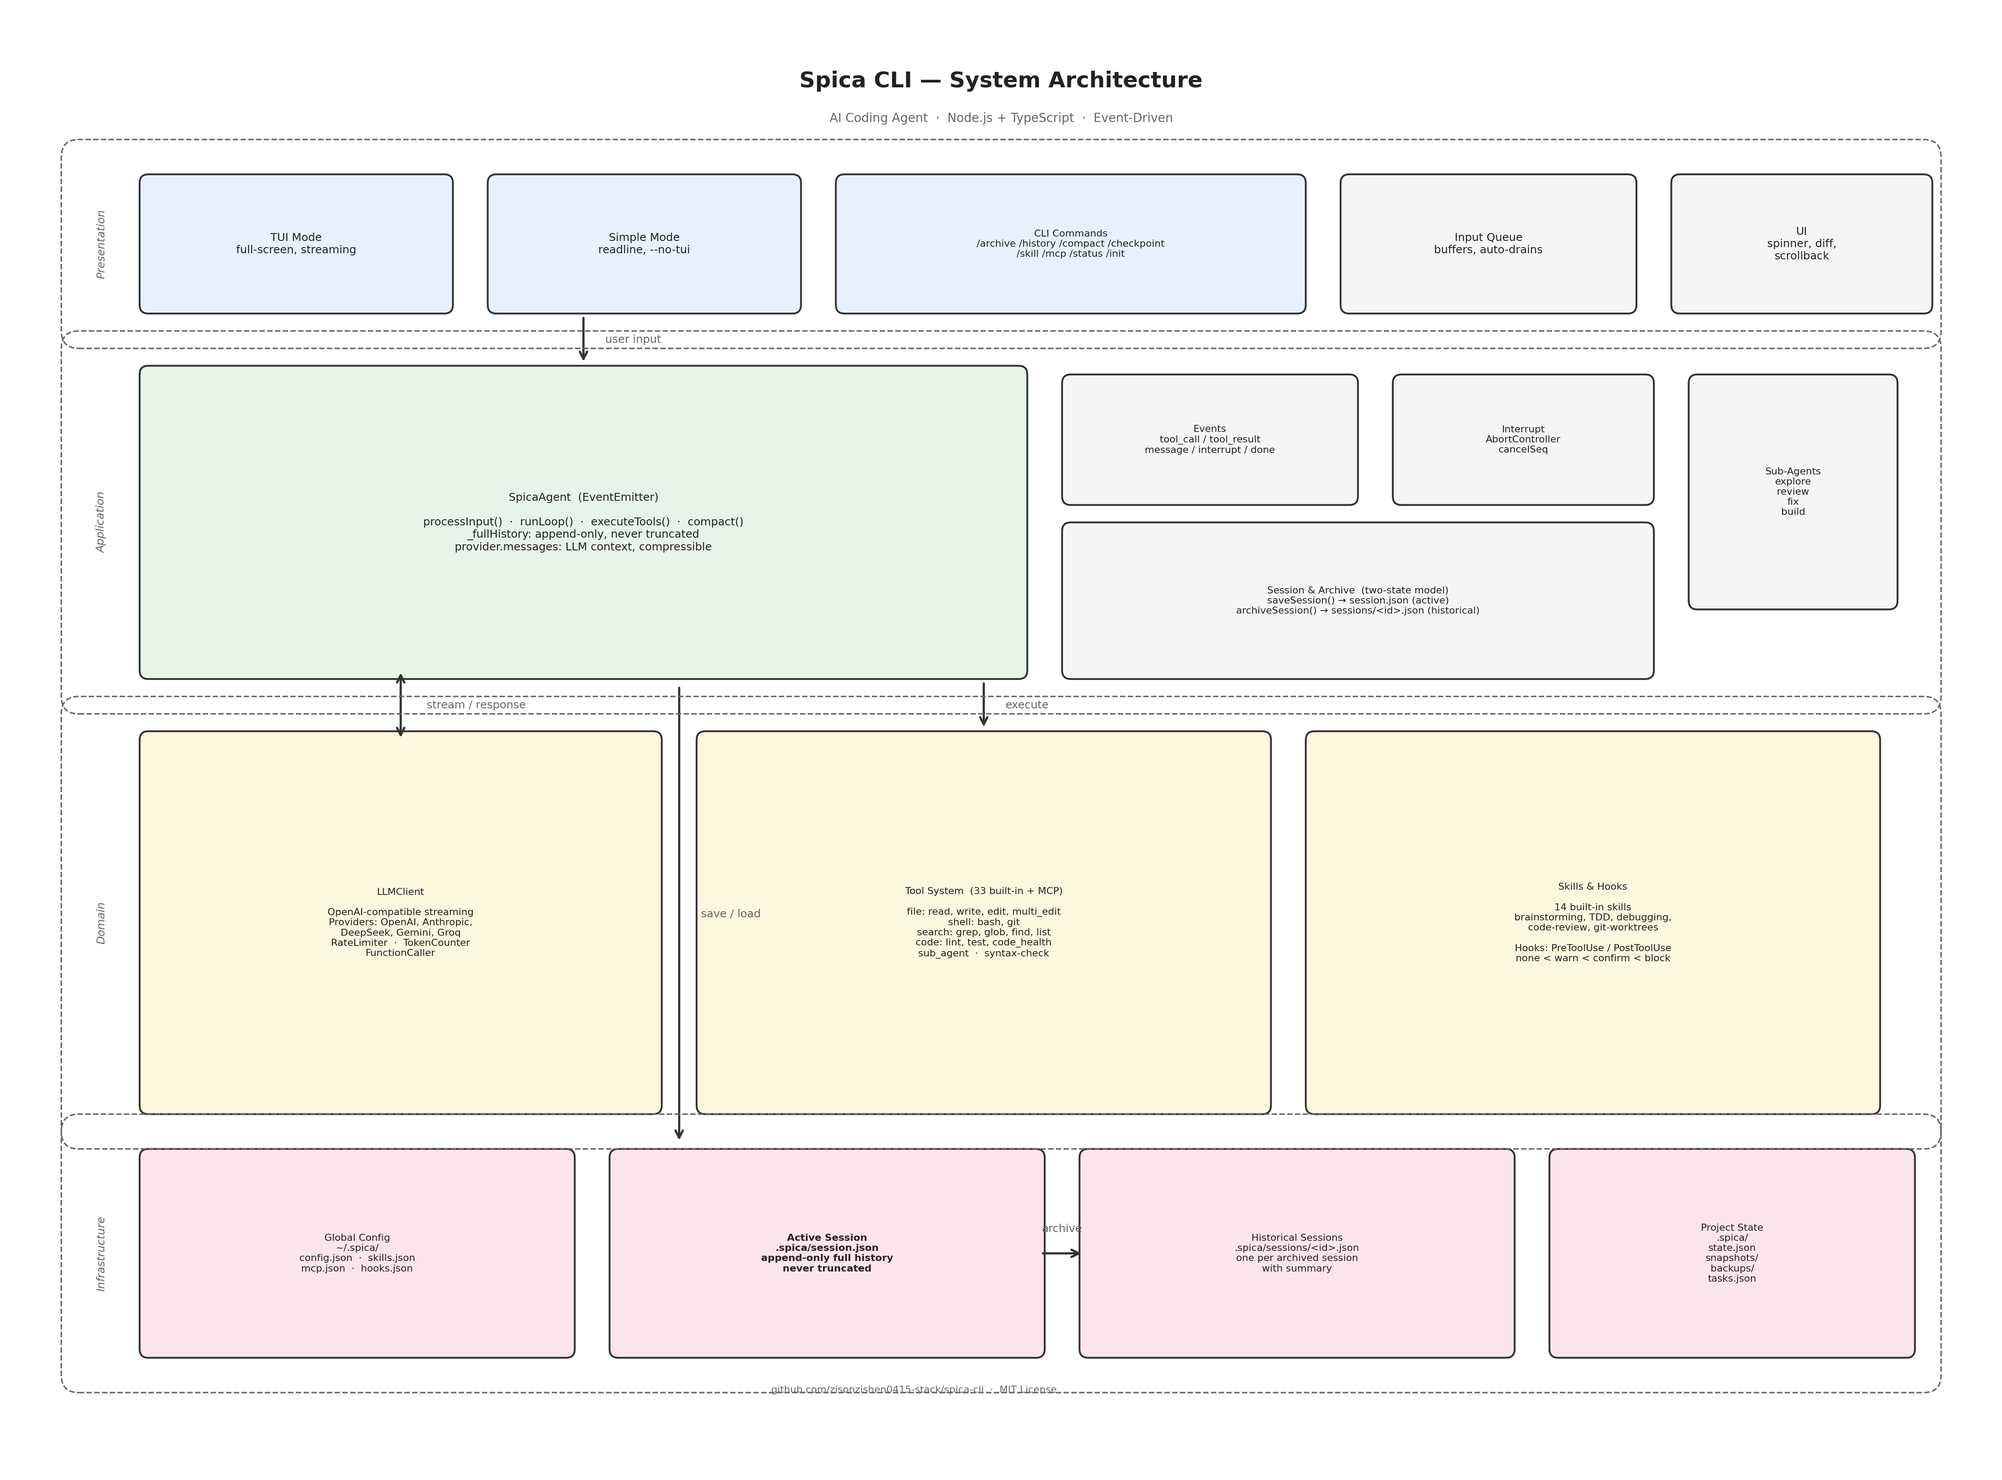
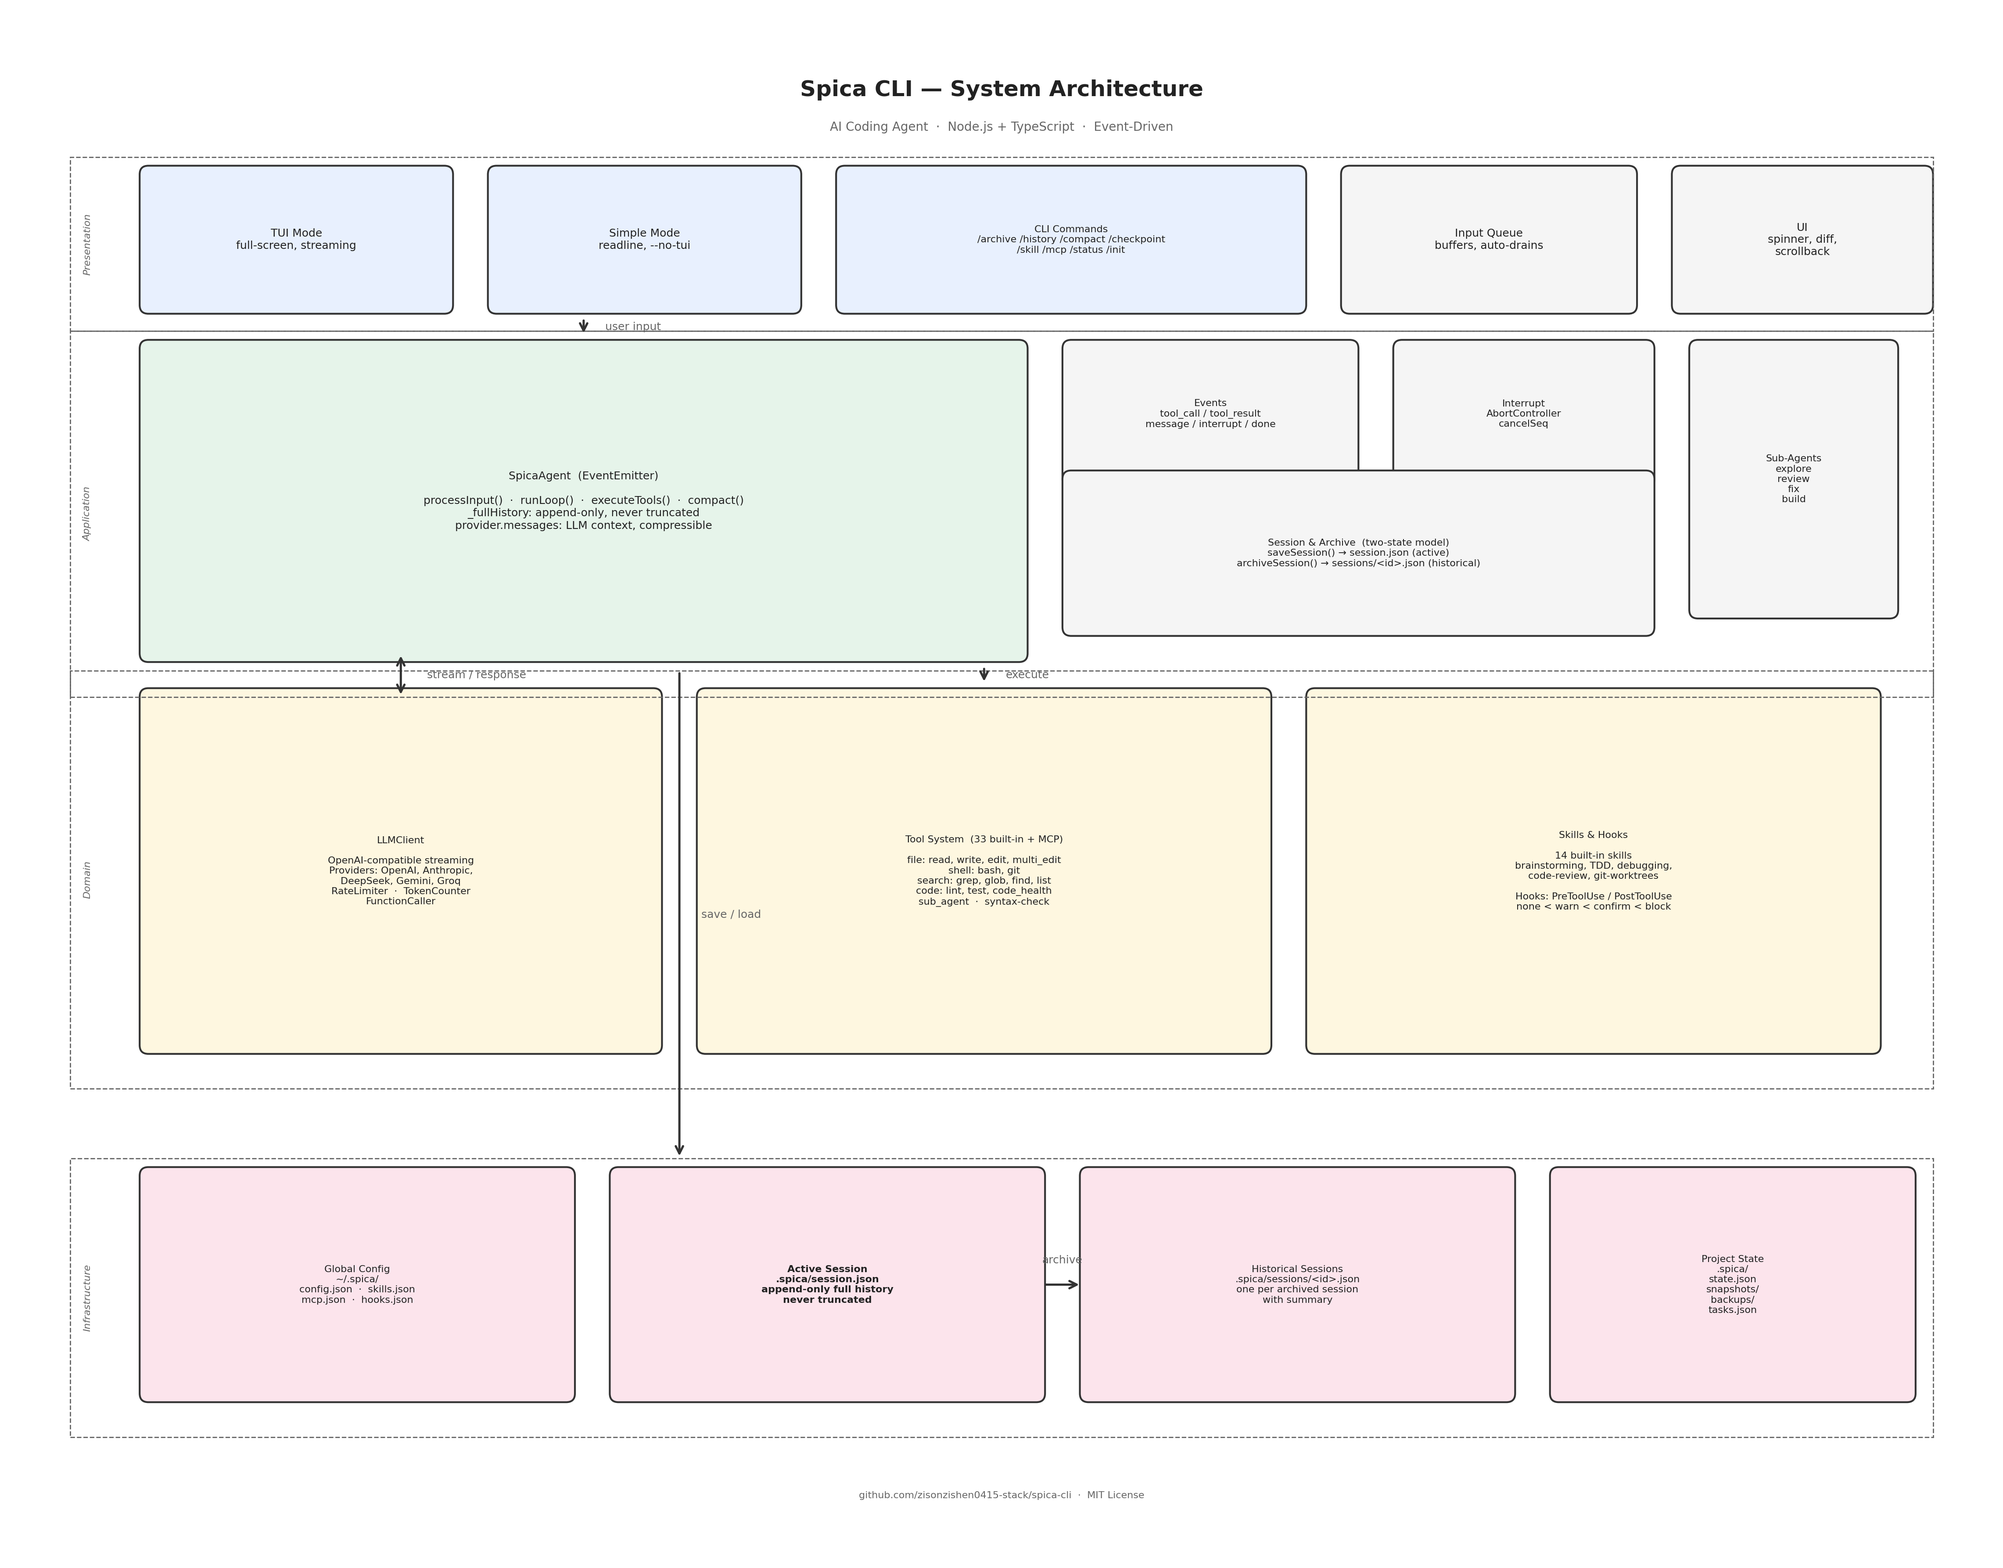
fix(docs): full rewrite — Rectangle layer borders, clean spacing
- Rectangle (not rounded) layer boundaries → no corner overlap
- 0-unit gaps between adjacent layers → shared clean edges
- 0.8-unit gap between Domain and Infrastructure for save/load arrow
- All positions verified: boxes fully within their layer boundaries

diff --git a/scripts/draw_architecture.py b/scripts/draw_architecture.py
@@ -1,19 +1,17 @@
 #!/usr/bin/env python3
-"""Spica CLI — academic-style system block diagram."""
+"""Spica CLI — academic block diagram with clean spacing."""
 
 import matplotlib
 matplotlib.use('Agg')
 import matplotlib.pyplot as plt
-from matplotlib.patches import Rectangle, FancyBboxPatch, FancyArrowPatch
-from matplotlib.patches import FancyArrowPatch as FAP
+from matplotlib.patches import FancyBboxPatch, Rectangle, FancyArrowPatch as FAP
 
-fig, ax = plt.subplots(figsize=(22, 16))
+fig, ax = plt.subplots(figsize=(22, 17))
 ax.set_xlim(0, 22)
-ax.set_ylim(0, 16)
+ax.set_ylim(0, 17)
 ax.set_aspect('equal')
 ax.axis('off')
 
-# Academic palette: white bg, black lines, muted fills
 BG   = '#ffffff'
 BOX  = '#f5f5f5'
 BOX2 = '#e8f0fe'
@@ -27,19 +25,16 @@ GRAY = '#666666'
 fig.set_facecolor(BG)
 ax.set_facecolor(BG)
 
-# ═══════════════════════════════════════════════
-# HELPERS
-# ═══════════════════════════════════════════════
+# ── helpers ────────────────────────────────────
 
 class Box:
-    """A labeled block. Coordinates are (left, bottom, width, height)."""
-    def __init__(self, x, y, w, h, label, color=BOX, fontsize=10, bold=False):
+    def __init__(self, x, y, w, h, label, color=BOX, fs=10, bold=False):
         self.x, self.y, self.w, self.h = x, y, w, h
         r = FancyBboxPatch((x, y), w, h, boxstyle='round,pad=0.1',
                            facecolor=color, edgecolor=LINE, lw=1.5)
         ax.add_patch(r)
         wt = 'bold' if bold else 'normal'
-        ax.text(x + w/2, y + h/2, label, color=TEXT, fontsize=fontsize,
+        ax.text(x + w/2, y + h/2, label, color=TEXT, fontsize=fs,
                 ha='center', va='center', fontweight=wt)
 
     def top(self):    return self.y + self.h
@@ -49,95 +44,91 @@ class Box:
     def cx(self):     return self.x + self.w/2
     def cy(self):     return self.y + self.h/2
 
-def arrow(x1, y1, x2, y2, color=LINE, lw=1.8, label='', fs=9, gap=0.15):
-    """Draw a clean arrow from (x1,y1) to (x2,y2), with gap from endpoints.
-    Supports horizontal or vertical arrows only."""
+def arrow(x1, y1, x2, y2, label='', fs=9, gap=0.15):
     dx, dy = x2 - x1, y2 - y1
-    dist = (dx**2 + dy**2)**0.5
-    if dist == 0:
-        return
-    ux, uy = dx/dist, dy/dist
-    # Apply gap
-    sx, sy = x1 + ux*gap, y1 + uy*gap
-    ex, ey = x2 - ux*gap, y2 - uy*gap
-    p = FAP((sx, sy), (ex, ey), arrowstyle='->', color=color, lw=lw,
-            mutation_scale=15, shrinkA=0, shrinkB=0)
+    d = (dx**2 + dy**2)**0.5
+    if d == 0: return
+    ux, uy = dx/d, dy/d
+    p = FAP((x1+ux*gap, y1+uy*gap), (x2-ux*gap, y2-uy*gap),
+            arrowstyle='->', color=LINE, lw=1.8, mutation_scale=15)
     ax.add_patch(p)
     if label:
-        mx, my = (sx+ex)/2, (sy+ey)/2
-        # Place label offset perpendicular to arrow direction
-        if abs(dx) > abs(dy):  # horizontal
-            ax.text(mx, my + 0.22, label, color=GRAY, fontsize=fs, ha='center', va='bottom')
-        else:  # vertical
-            ax.text(mx + 0.25, my, label, color=GRAY, fontsize=fs, ha='left', va='center')
+        mx, my = (x1+x2)/2, (y1+y2)/2
+        if abs(dx) > abs(dy):
+            ax.text(mx, my+0.22, label, color=GRAY, fontsize=fs, ha='center', va='bottom')
+        else:
+            ax.text(mx+0.25, my, label, color=GRAY, fontsize=fs, ha='left', va='center')
 
-def bidir_arrow(x1, y1, x2, y2, color=LINE, lw=1.8, label='', fs=9):
-    """Bidirectional arrow. Shows a single line with arrowheads at both ends."""
-    p = FAP((x1, y1), (x2, y2), arrowstyle='<->', color=color, lw=lw,
+def bidir(x1, y1, x2, y2, label='', fs=9):
+    p = FAP((x1, y1), (x2, y2), arrowstyle='<->', color=LINE, lw=1.8,
             mutation_scale=15, shrinkA=2, shrinkB=2)
     ax.add_patch(p)
     if label:
         mx, my = (x1+x2)/2, (y1+y2)/2
-        ax.text(mx + 0.3, my, label, color=GRAY, fontsize=fs, ha='left', va='center')
+        ax.text(mx+0.3, my, label, color=GRAY, fontsize=fs, ha='left', va='center')
 
-# ═══════════════════════════════════════════════
-# TITLE
-# ═══════════════════════════════════════════════
-ax.text(11, 15.5, 'Spica CLI — System Architecture', color=TEXT, fontsize=18,
+def layer(x, y, w, h, label):
+    r = Rectangle((x, y), w, h, facecolor='none', edgecolor=GRAY, lw=1.0, ls='--')
+    ax.add_patch(r)
+    ax.text(x+0.15, y+h/2, label, color=GRAY, fontsize=8, fontstyle='italic',
+            va='center', rotation=90)
+
+# ── title ──────────────────────────────────────
+
+ax.text(11, 16.4, 'Spica CLI — System Architecture', color=TEXT, fontsize=18,
         ha='center', fontweight='bold')
-ax.text(11, 15.1, 'AI Coding Agent  ·  Node.js + TypeScript  ·  Event-Driven',
+ax.text(11, 16.0, 'AI Coding Agent  ·  Node.js + TypeScript  ·  Event-Driven',
         color=GRAY, fontsize=10, ha='center')
 
-# ═══════════════════════════════════════════════
-# LAYER 1 — USER INTERFACE  (y=13.0, h=1.4)
-# ═══════════════════════════════════════════════
-ui_y, ui_h = 13.0, 1.4
-g = 0.6  # horizontal gap
+# ── layer 1: user interface ────────────────────
+# boxes at y=14.0, h=1.5  (14.0..15.5)
+# layer boundary: y=13.7..15.7
 
-tui    = Box(1.2, ui_y, 3.4, ui_h, 'TUI Mode\nfull-screen, streaming', BOX2, 9)
-simple = Box(tui.right()+g, ui_y, 3.4, ui_h, 'Simple Mode\nreadline, --no-tui', BOX2, 9)
-cmds   = Box(simple.right()+g, ui_y, 5.2, ui_h, 'CLI Commands\n/archive /history /compact /checkpoint\n/skill /mcp /status /init', BOX2, 8)
-iqueue = Box(cmds.right()+g, ui_y, 3.2, ui_h, 'Input Queue\nbuffers, auto-drains', BOX, 9)
-uicomp = Box(iqueue.right()+g, ui_y, 2.8, ui_h, 'UI\nspinner, diff,\nscrollback', BOX, 9)
+G = 0.6  # horizontal gap
 
-# ═══════════════════════════════════════════════
-# LAYER 2 — CORE AGENT  (y=8.8, h=3.4)
-# ═══════════════════════════════════════════════
-agent_y, agent_h = 8.8, 3.4
+tui    = Box(1.2, 14.0, 3.4, 1.5, 'TUI Mode\nfull-screen, streaming', BOX2, 9)
+simple = Box(tui.right()+G, 14.0, 3.4, 1.5, 'Simple Mode\nreadline, --no-tui', BOX2, 9)
+cmds   = Box(simple.right()+G, 14.0, 5.2, 1.5, 'CLI Commands\n/archive /history /compact /checkpoint\n/skill /mcp /status /init', BOX2, 8)
+iqueue = Box(cmds.right()+G, 14.0, 3.2, 1.5, 'Input Queue\nbuffers, auto-drains', BOX, 9)
+uicomp = Box(iqueue.right()+G, 14.0, 2.8, 1.5, 'UI\nspinner, diff,\nscrollback', BOX, 9)
 
-agent = Box(1.2, agent_y, 10.0, agent_h,
+# ── layer 2: core agent ────────────────────────
+# agent box at y=10.0, h=3.5  (10.0..13.5)
+# layer boundary: y=9.5..13.7
+
+agent = Box(1.2, 10.0, 10.0, 3.5,
             'SpicaAgent  (EventEmitter)\n\n'
             'processInput()  ·  runLoop()  ·  executeTools()  ·  compact()\n'
             '_fullHistory: append-only, never truncated\n'
             'provider.messages: LLM context, compressible',
             BOX3, 9)
 
-events = Box(agent.right()+g, 10.8, 3.2, 1.3,
+events = Box(agent.right()+G, agent.top()-1.5, 3.2, 1.5,
              'Events\ntool_call / tool_result\nmessage / interrupt / done', BOX, 8)
 
-interrupt = Box(events.right()+g, 10.8, 2.8, 1.3,
+interrupt = Box(events.right()+G, agent.top()-1.5, 2.8, 1.5,
                 'Interrupt\nAbortController\ncancelSeq', BOX, 8)
 
-session = Box(agent.right()+g, 8.8, interrupt.right()-agent.right()-g, 1.6,
+session = Box(agent.right()+G, agent.y+0.3,
+              interrupt.right() - agent.right() - G, 1.7,
               'Session & Archive  (two-state model)\n'
               'saveSession() → session.json (active)\narchiveSession() → sessions/<id>.json (historical)',
               BOX, 8)
 
-subagent = Box(interrupt.right()+g, 9.6, 2.2, 2.5,
+subagent = Box(interrupt.right()+G, agent.y+0.5, 2.2, 3.0,
                'Sub-Agents\nexplore\nreview\nfix\nbuild', BOX, 8)
 
-# ═══════════════════════════════════════════════
-# LAYER 3 — SERVICES  (y=3.8, h=4.2)
-# ═══════════════════════════════════════════════
-svc_y, svc_h = 3.8, 4.2
+# ── layer 3: services ──────────────────────────
+# boxes at y=5.5, h=4.0  (5.5..9.5)
+# layer boundary: y=5.0..9.8
 
-llm = Box(1.2, svc_y, 5.8, svc_h,
+llm = Box(1.2, 5.5, 5.8, 4.0,
           'LLMClient\n\nOpenAI-compatible streaming\n'
           'Providers: OpenAI, Anthropic,\nDeepSeek, Gemini, Groq\n'
           'RateLimiter  ·  TokenCounter\nFunctionCaller',
           BOX4, 8)
 
-tools = Box(llm.right()+g, svc_y, 6.4, svc_h,
+tools = Box(llm.right()+G, 5.5, 6.4, 4.0,
             'Tool System  (33 built-in + MCP)\n\n'
             'file: read, write, edit, multi_edit\n'
             'shell: bash, git\n'
@@ -146,68 +137,60 @@ tools = Box(llm.right()+g, svc_y, 6.4, svc_h,
             'sub_agent  ·  syntax-check',
             BOX4, 8)
 
-skills = Box(tools.right()+g, svc_y, 6.4, svc_h,
+skills = Box(tools.right()+G, 5.5, 6.4, 4.0,
              'Skills & Hooks\n\n'
              '14 built-in skills\nbrainstorming, TDD, debugging,\ncode-review, git-worktrees\n\n'
              'Hooks: PreToolUse / PostToolUse\nnone < warn < confirm < block',
              BOX4, 8)
 
-# ═══════════════════════════════════════════════
-# LAYER 4 — STORAGE  (y=1.0, h=2.2)
-# ═══════════════════════════════════════════════
-sto_y, sto_h = 1.0, 2.2
+# ── layer 4: storage ───────────────────────────
+# boxes at y=1.5, h=2.5  (1.5..4.0)
+# layer boundary: y=1.0..4.2
 
-global_cfg = Box(1.2, sto_y, 4.8, sto_h,
+global_cfg = Box(1.2, 1.5, 4.8, 2.5,
                  'Global Config\n~/.spica/\nconfig.json  ·  skills.json\nmcp.json  ·  hooks.json', BOX5, 8)
 
-active = Box(global_cfg.right()+g, sto_y, 4.8, sto_h,
+active = Box(global_cfg.right()+G, 1.5, 4.8, 2.5,
              'Active Session\n.spica/session.json\nappend-only full history\nnever truncated', BOX5, 8, bold=True)
 
-historical = Box(active.right()+g, sto_y, 4.8, sto_h,
+historical = Box(active.right()+G, 1.5, 4.8, 2.5,
                  'Historical Sessions\n.spica/sessions/<id>.json\none per archived session\nwith summary', BOX5, 8)
 
-project = Box(historical.right()+g, sto_y, 4.0, sto_h,
+project = Box(historical.right()+G, 1.5, 4.0, 2.5,
               'Project State\n.spica/\nstate.json\nsnapshots/\nbackups/\ntasks.json', BOX5, 8)
 
-# ═══════════════════════════════════════════════
-# ARROWS — precise edge-to-edge
-# ═══════════════════════════════════════════════
+# ── layer boundaries (Rectangle, no rounding) ──
 
-# 1. UI → Agent: user input enters the system
-arrow(agent.cx(), ui_y, agent.cx(), agent.top(), LINE, label='user input', fs=9)
+layer(0.3, 13.7, 21.4, 2.0, 'Presentation')
+layer(0.3,  9.5, 21.4, 4.2, 'Application')
+layer(0.3,  5.0, 21.4, 4.8, 'Domain')
+layer(0.3,  1.0, 21.4, 3.2, 'Infrastructure')
 
-# 2. Agent ↔ LLM: bidirectional stream request / response
-bidir_arrow(llm.cx(), agent.bottom(), llm.cx(), llm.top(), LINE, label='stream / response', fs=9)
+# Check: layer boundaries do not overlap because:
+#   Pres 13.7..15.7  → gap 0  →  App 9.5..13.7  (rect, shared edge ok)
+#   App   9.5..13.7  → gap 0  →  Dom 5.0..9.8   (rect, shared edge ok)
+#   Dom   5.0..9.8   → gap 0.8 →  Inf 1.0..4.2  (spacing for arrow)
 
-# 3. Agent → Tools: agent dispatches tool calls
-arrow(tools.cx(), agent.bottom(), tools.cx(), tools.top(), LINE, label='execute', fs=9)
+# ── arrows ─────────────────────────────────────
 
-# 4. Agent → Storage: save/load, passing through service-layer gap
+# 1. UI → Agent
+arrow(agent.cx(), 14.0, agent.cx(), agent.top(), 'user input')
+
+# 2. Agent ↔ LLM
+bidir(llm.cx(), agent.bottom(), llm.cx(), llm.top(), 'stream / response')
+
+# 3. Agent → Tools
+arrow(tools.cx(), agent.bottom(), tools.cx(), tools.top(), 'execute')
+
+# 4. Agent → Storage (through gap between LLM and Tools)
 mid_x = (llm.right() + tools.left()) / 2
-arrow(mid_x, agent.bottom(), mid_x, active.top(), LINE, label='save / load', fs=9, gap=0.2)
+arrow(mid_x, agent.bottom(), mid_x, active.top(), 'save / load', gap=0.2)
 
-# 5. Active → Historical: archive moves session rightward
-arrow(active.right(), active.cy(), historical.left(), historical.cy(), LINE, label='archive', fs=9, gap=0.08)
+# 5. Active → Historical
+arrow(active.right(), active.cy(), historical.left(), historical.cy(), 'archive', gap=0.08)
 
-# ═══════════════════════════════════════════════
-# LAYER BOUNDARIES (dashed)
-# ═══════════════════════════════════════════════
-def layer_box(x, y, w, h, label):
-    r = FancyBboxPatch((x, y), w, h, boxstyle='round,pad=0.2',
-                       facecolor='none', edgecolor=GRAY, lw=1.2, linestyle='--')
-    ax.add_patch(r)
-    ax.text(x + 0.2, y + h/2, label, color=GRAY, fontsize=9, fontstyle='italic',
-            va='center', rotation=90)
-
-layer_box(0.4, 12.7, 21.2, 2.0, 'Presentation')
-layer_box(0.4, 8.5,  21.2, 4.0, 'Application')
-layer_box(0.4, 3.5,  21.2, 4.8, 'Domain')
-layer_box(0.4, 0.7,  21.2, 2.8, 'Infrastructure')
-
-# ═══════════════════════════════════════════════
-# FOOTER
-# ═══════════════════════════════════════════════
-ax.text(10, 0.5, 'github.com/zisonzishen0415-stack/spica-cli  ·  MIT License',
+# ── footer ─────────────────────────────────────
+ax.text(11, 0.3, 'github.com/zisonzishen0415-stack/spica-cli  ·  MIT License',
         color=GRAY, fontsize=8, ha='center')
 
 plt.tight_layout(pad=0.5)
